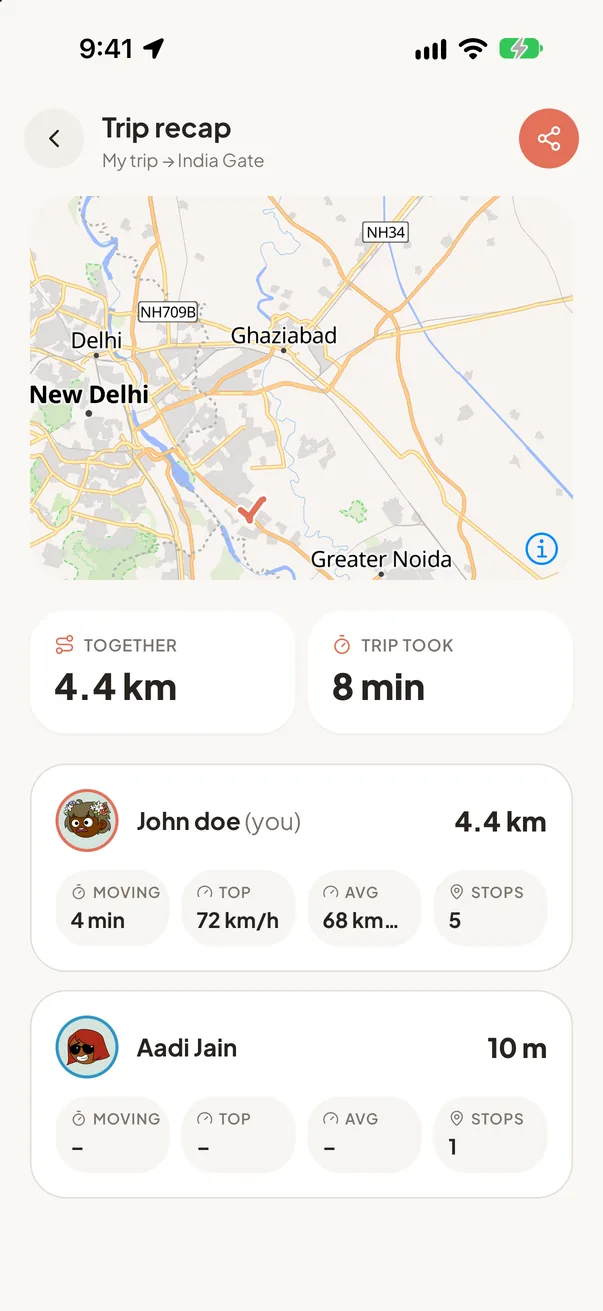
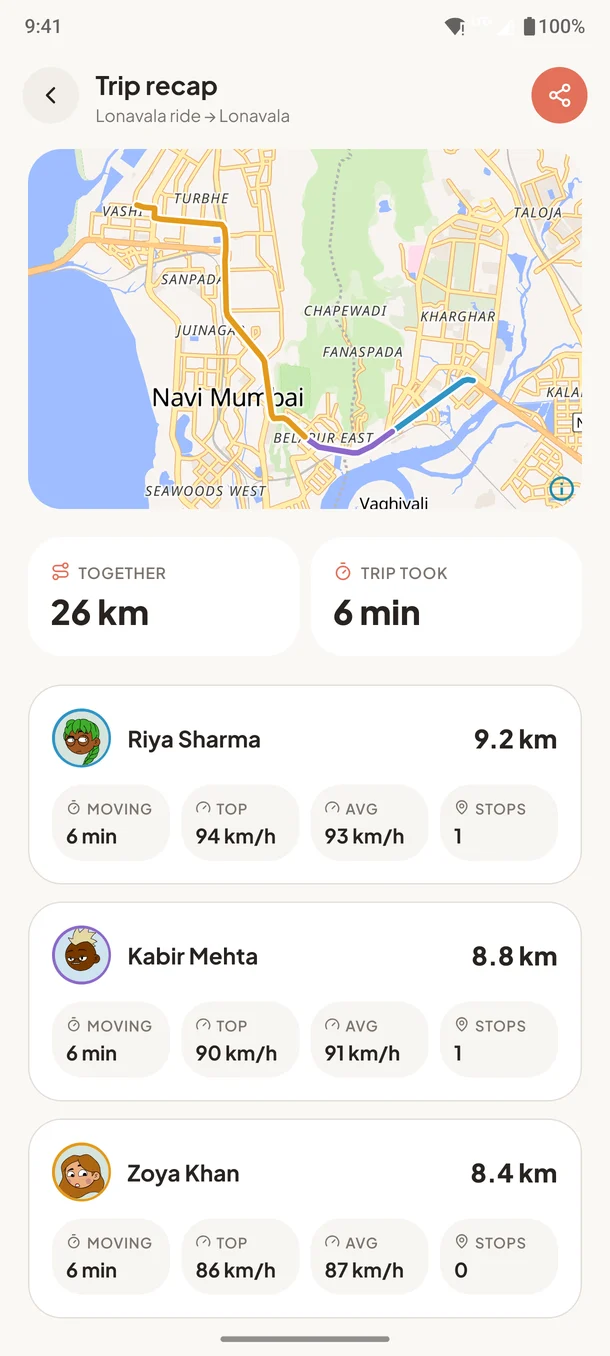
feat(web): retake the trip recap on Android, match the lookout card to its screenshot

diff --git a/web/src/app/page.jsx b/web/src/app/page.jsx
@@ -251,7 +251,7 @@ export default function Home() {
 									<Eye className="size-4 text-primary" />
 								</span>
 								<div className="text-left">
-									<p className="text-sm font-bold leading-tight">Mom is watching Goa trip</p>
+									<p className="text-sm font-bold leading-tight">Mom is watching Lonavala ride</p>
 									<p className="text-xs text-muted-foreground">Her location isn&apos;t shared.</p>
 								</div>
 							</div>
